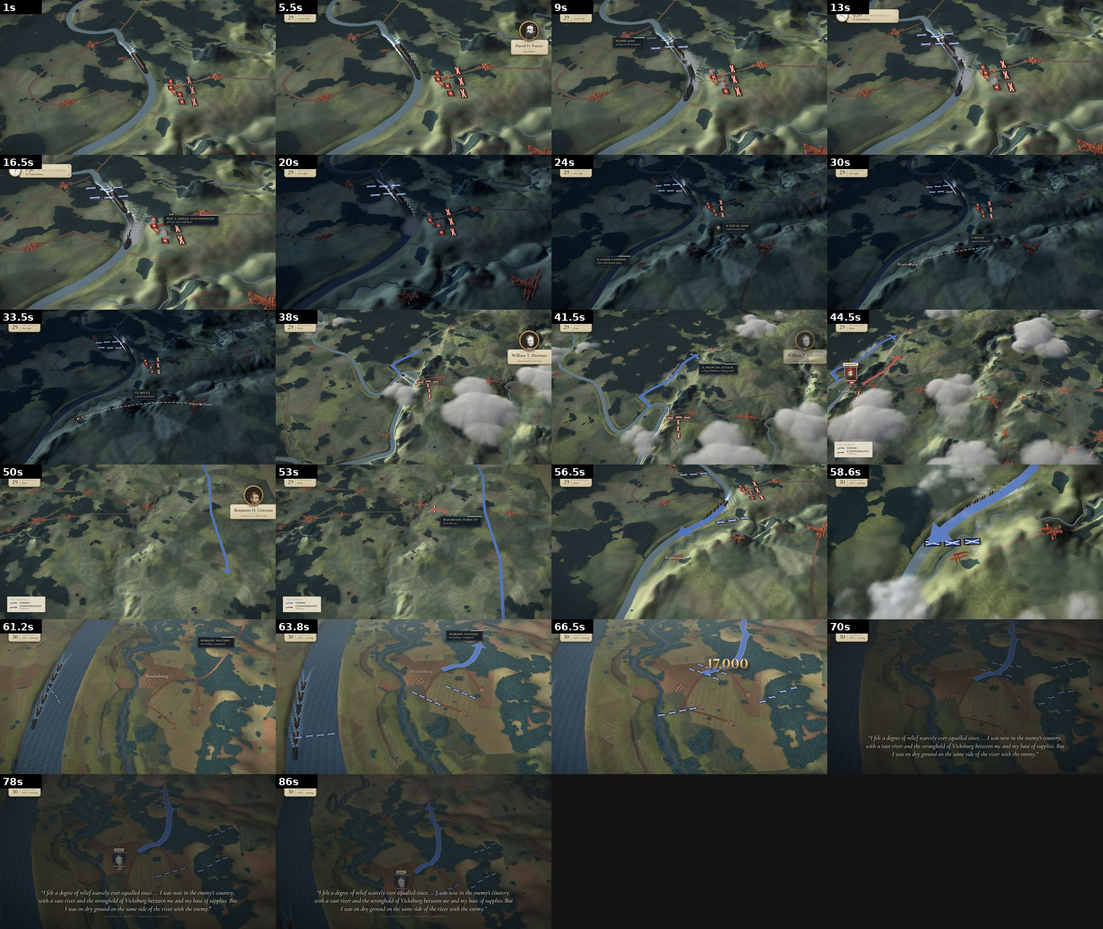
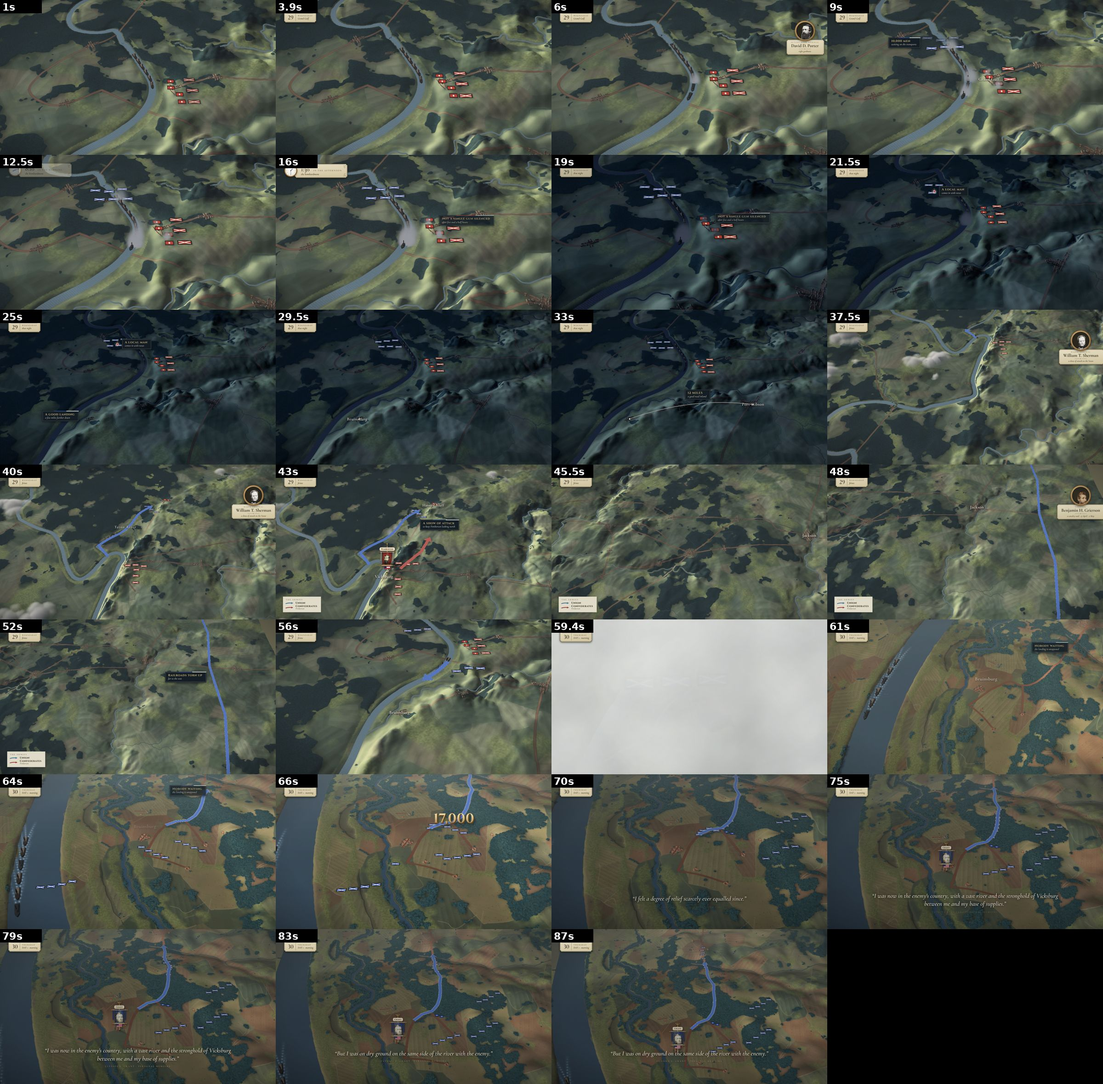
Vicksburg #19: S09 camera clear of the map edge
Claude-Session: https://claude.ai/code/session_011uJnjA7y1mRFw6KPGY1APG

diff --git a/vicksburg/sequences/S02/seq.js b/vicksburg/sequences/S02/seq.js
@@ -97,9 +97,9 @@ const units = [
   { region: WD, side: R, type: "inf", n: 3, face: VX.FACE.nw, t0: T.december + 0.6, keys: [[0, 1421, 632]] },
   // the plan: the army marches down the west bank (Milliken's Bend -> Hard Times)
 ];
-// the west-bank road (Louisiana): Milliken's Bend - Richmond - Roundaway Bayou - round the river's western loop - New Carthage - Hard Times,
+// the west-bank road (Louisiana): Milliken's Bend - Richmond - down the west side of Roundaway Bayou - round the river's western loop - New Carthage - Hard Times,
 // 12-30 units (1.5-4 km) west of the channel everywhere (the baked road 0/1 runs ON the channel between New Carthage and Perkins')
-const WB = [MB, [1199, 609], [1180, 629], TW("Richmond"), [1172, 662], [1186, 676], [1199, 690], [1205, 706], [1204, 726], [1197, 746], [1186, 765], [1172, 782],
+const WB = [MB, [1199, 609], [1180, 629], TW("Richmond"), [1162, 664], [1168, 680], [1178, 698], [1192, 716], [1200, 735], [1198, 755], [1188, 770], [1172, 784],
   [1161, 800], [1155, 822], [1156, 846], [1163, 866], [1176, 882], NC, [1209, 903], HT];
 const WBthin = WB;
 const WBL = VX.len(WB);

diff --git a/vicksburg/sequences/S09/seq.js b/vicksburg/sequences/S09/seq.js
@@ -199,8 +199,8 @@ window.SEQ = {
     { t: 61.0, region: C, at: [1639.6, 690.8], dist: 31, tilt: 50, yaw: -7, fov: 30 },
     { t: 65.8, region: C, at: [1635.4, 691.0], dist: 32, tilt: 44, yaw: -9, fov: 30 },
     { t: 70.8, region: C, at: [1645.0, 709.6], dist: 38, tilt: 42, yaw: -3, fov: 30 },
-    { t: 74.2, region: C, at: [1644.6, 702.6], dist: 45, tilt: 37, yaw: -4, fov: 30 },
-    { t: 77.6, region: C, at: [1644.2, 701.4], dist: 45, tilt: 37, yaw: -5, fov: 30 },
+    { t: 74.2, region: C, at: [1643.2, 703.4], dist: 43, tilt: 37, yaw: -4, fov: 30 },
+    { t: 77.6, region: C, at: [1642.8, 702.4], dist: 43, tilt: 37, yaw: -5, fov: 30 },
     { t: 83.6, region: C, at: [1640.8, 698.6], dist: 38, tilt: 44, yaw: -8, fov: 30 },
     // round 2: the crest fight seen ALONG the attack axis (yaw ~ -40: Union line at the top, Confederate line below, the front across the frame)
     { t: 89.0, region: C, at: [...FR(-1.6, 1.6)], dist: 31, tilt: 40, yaw: -30, fov: 30 },
